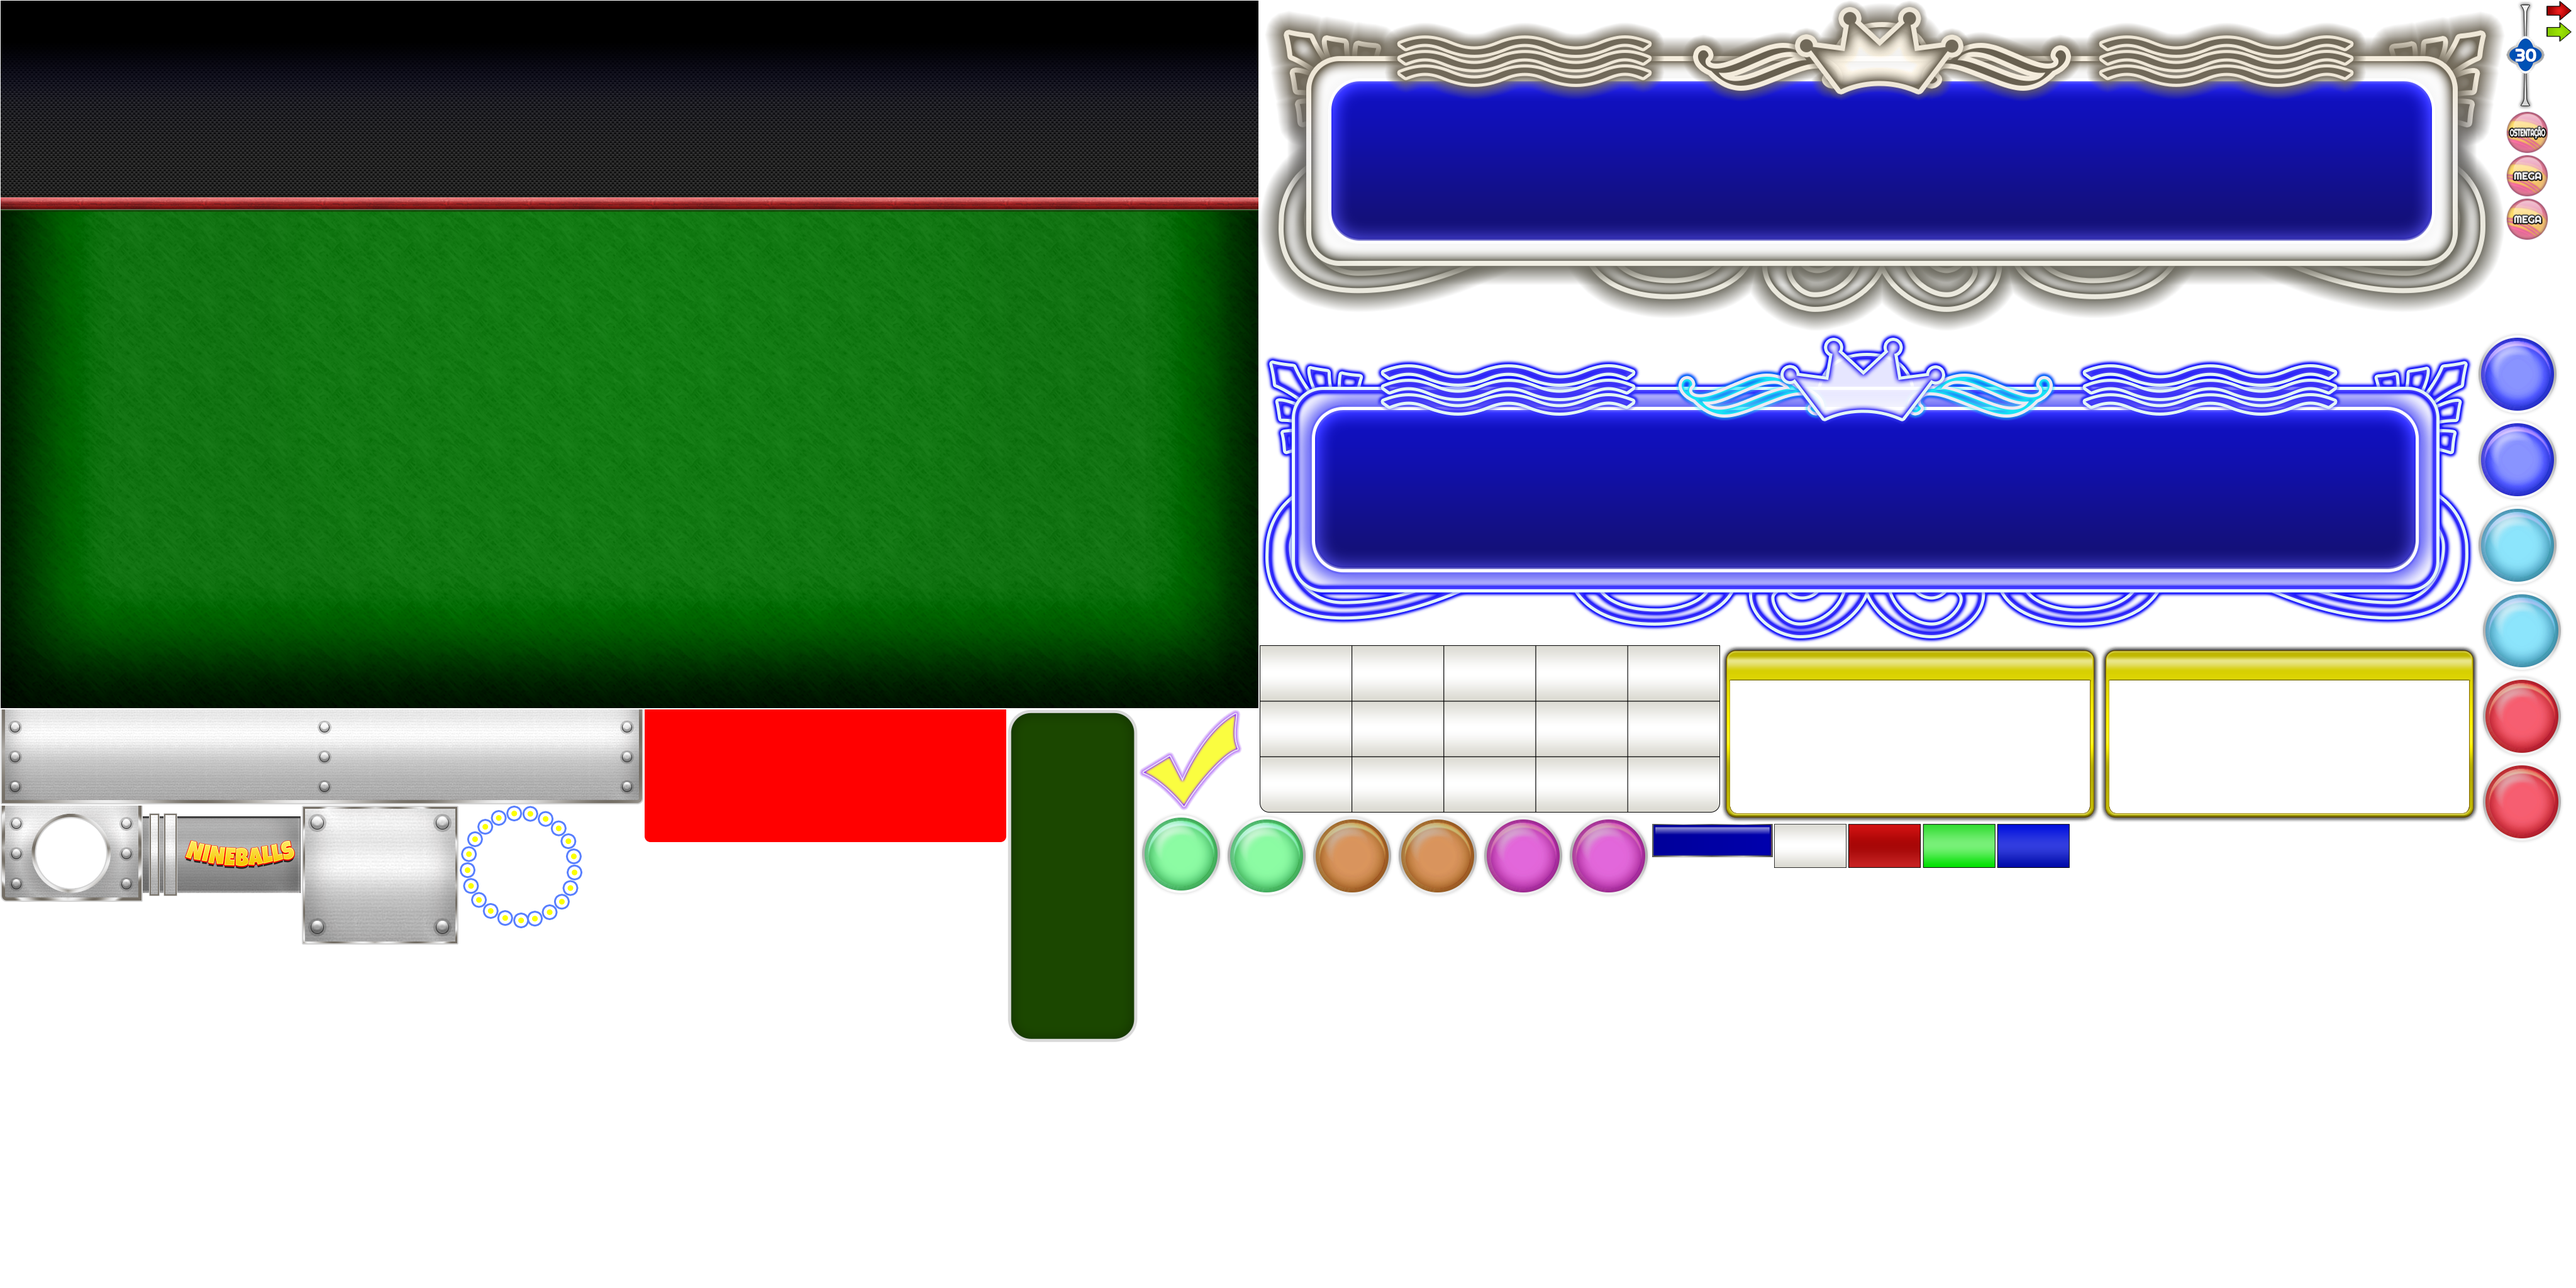
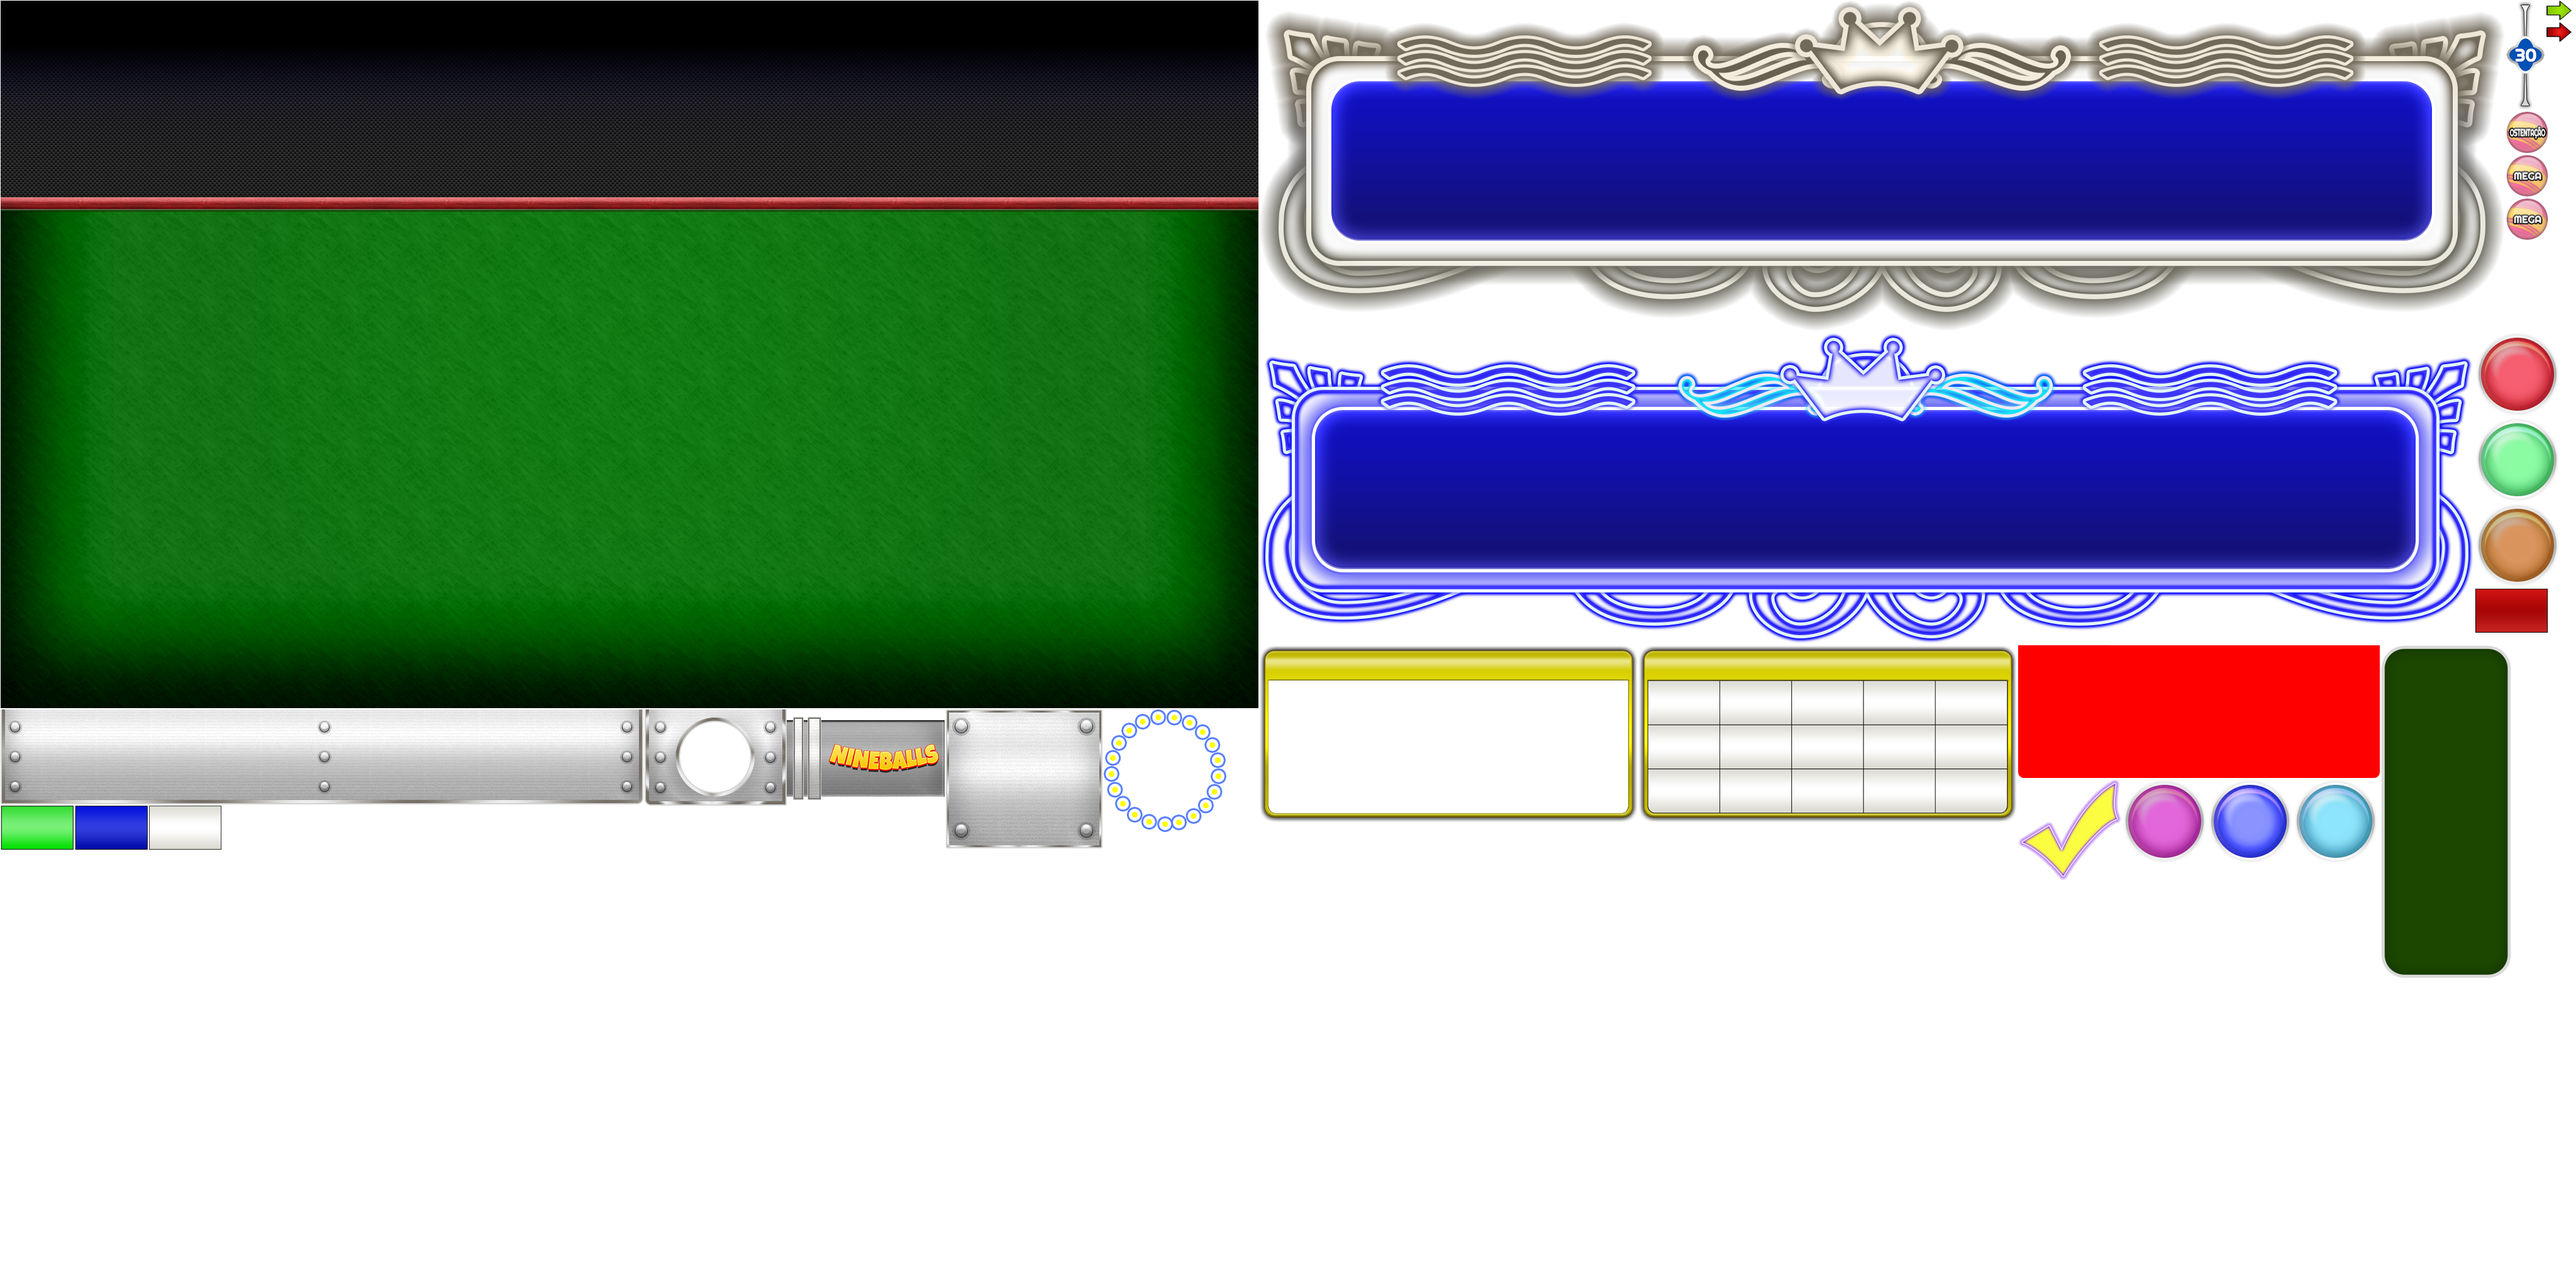
nineball

Changed region(s): [[0.25, 0.25, 1.0, 0.8125], [0.0, 0.625, 0.2188, 0.75], [0.9688, 0.0, 1.0, 0.0312]]

diff --git a/newMoblie/src/bingoGames/v2games/Nineball.ts b/newMoblie/src/bingoGames/v2games/Nineball.ts
@@ -28,12 +28,9 @@ class Nineball extends V2Game{
 	    CardGrid.blinkColors2 = 0x00FF00;
         GameCard.useRedEffect = true;
 
-        this.needListenToolbarStatus = true;
-        this.tipStatusTextPosition = new egret.Rectangle( 240, 191, 280, 17 );
-        this.tipStatusTextColor = 0xFFFFFF;
-
-        GameToolBar.toolBarY = 474;
+        GameToolBar.toolBarY = 920;
         BingoBackGroundSetting.defaultScale = false;
+        BingoBackGroundSetting.gameMask = new egret.Rectangle( 0, 0, 2000, 1125 );
     }
 
     protected init(){
@@ -43,11 +40,7 @@ class Nineball extends V2Game{
         this.addGameText( 270, 36, 25, 0x585858, "double",false, 200 );
         this.addGameText( 270, 64, 25, 0x585858, "line",false, 200 );
 
-        this.addGameText( 10, 190, 18, 0xFEFE00, "bet", true, 100 );
-        this.addGameText( 487, 190, 18, 0xFEFE00, "credit", true, 100 );
-
-        this.betText = this.addGameTextCenterShadow( 80, 190, 18, 0xFFFFFF, "bet", false, 140 );
-        this.creditText = this.addGameTextCenterShadow( 570, 190, 18, 0xFEFE00, "credit", false, 200 );
+        this.showNoBetAndCredit();
 
         if( this.extraUIObject ) this.extraUIShowNumber();
 
@@ -237,7 +230,7 @@ class Nineball extends V2Game{
         if( localStorage.getItem( "nineball_mega" ) ) return;
         else{
             try{
-                RES.loadGroup( "megaForFirst_" + GlobelSettings.language );
+                // RES.loadGroup( "megaForFirst_" + GlobelSettings.language );
             }catch(e){}
         }
     }
